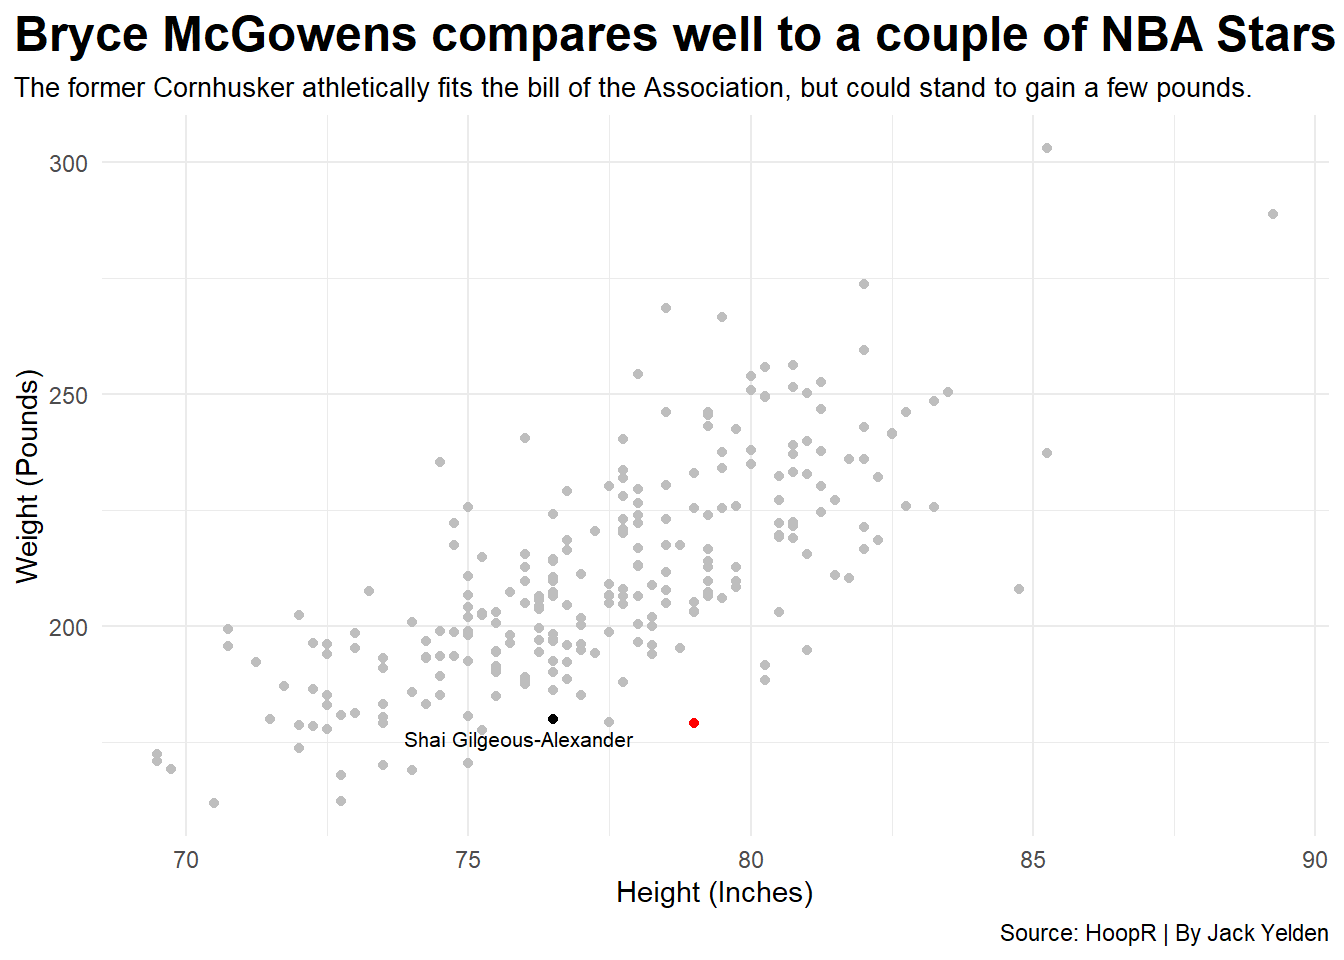
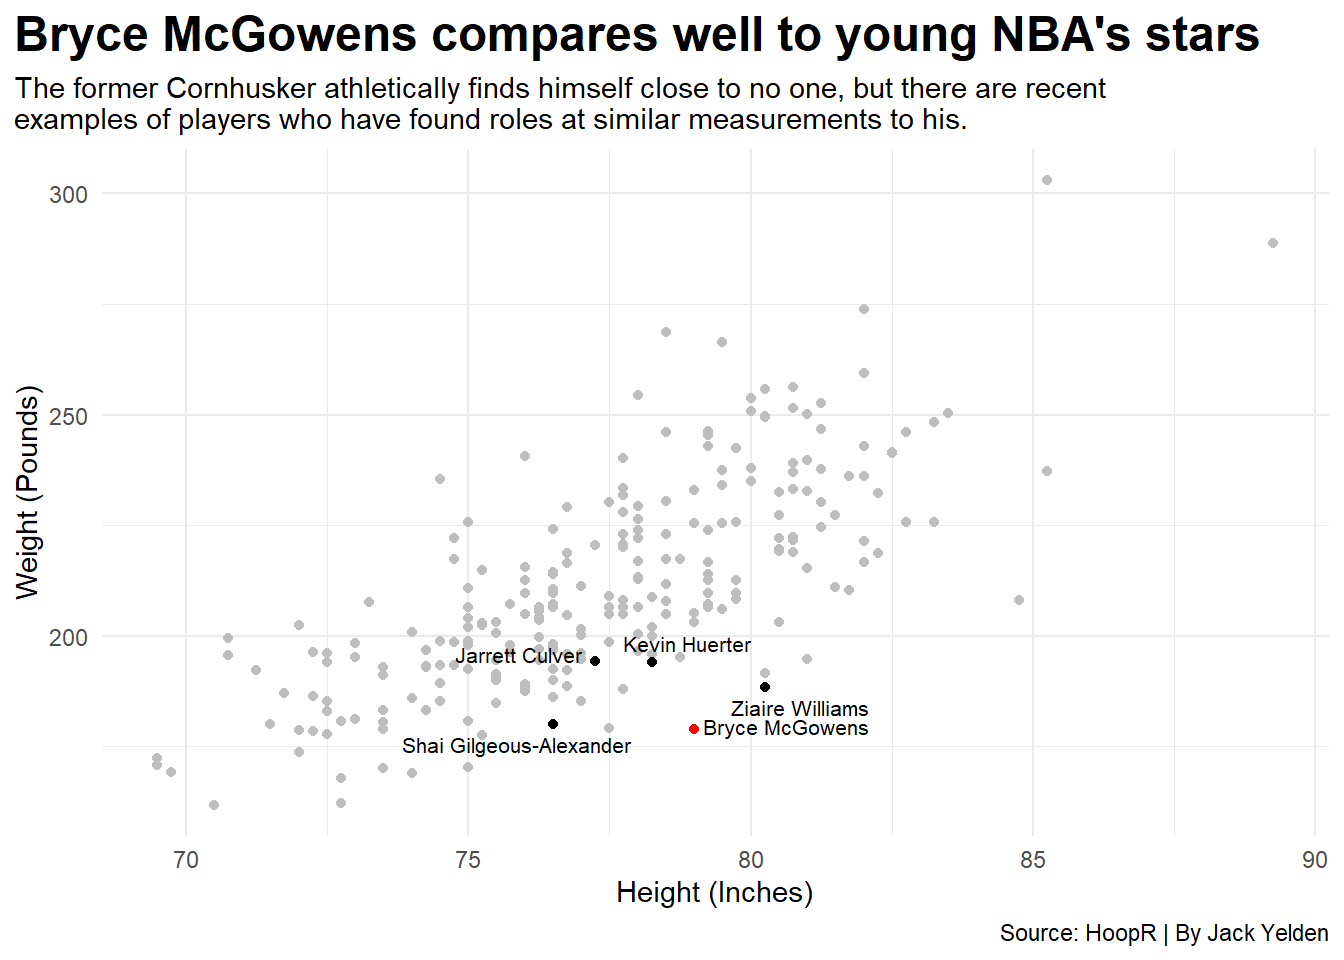
3rd Chart

diff --git a/2022/04/05/bryce-mcgowen-s-pro-prospects/index.html b/2022/04/05/bryce-mcgowen-s-pro-prospects/index.html
@@ -71,13 +71,14 @@
 
 
 <p>Nebraska Basketball had a poor 2021-2022 season, but if you were going to point to a single bright spot, it would probably be Bryce McGowens. The Freshman from South Carolina was the highest rated recruit in Nebraska Basketball history and contributed heavily on a team that had few playmakers.</p>
-<p><img src="/2022/04/05/bryce-mcgowen-s-pro-prospects/index_files/figure-html/unnamed-chunk-3-1.png" width="672" /></p>
-<div id="tbprsanabp" style="overflow-x:auto;overflow-y:auto;width:auto;height:auto;">
+<p><img src="/2022/04/05/bryce-mcgowen-s-pro-prospects/index_files/figure-html/unnamed-chunk-3-1.png" width="672" />
+<img src="/2022/04/05/bryce-mcgowen-s-pro-prospects/index_files/figure-html/unnamed-chunk-4-1.png" width="672" /></p>
+<div id="dggsoqyyez" style="overflow-x:auto;overflow-y:auto;width:auto;height:auto;">
 <style>html {
   font-family: -apple-system, BlinkMacSystemFont, 'Segoe UI', Roboto, Oxygen, Ubuntu, Cantarell, 'Helvetica Neue', 'Fira Sans', 'Droid Sans', Arial, sans-serif;
 }
 
-#tbprsanabp .gt_table {
+#dggsoqyyez .gt_table {
   display: table;
   border-collapse: collapse;
   margin-left: auto;
@@ -102,7 +103,7 @@
   border-left-color: #D3D3D3;
 }
 
-#tbprsanabp .gt_heading {
+#dggsoqyyez .gt_heading {
   background-color: #FFFFFF;
   text-align: center;
   border-bottom-color: #FFFFFF;
@@ -114,7 +115,7 @@
   border-right-color: #D3D3D3;
 }
 
-#tbprsanabp .gt_title {
+#dggsoqyyez .gt_title {
   color: #333333;
   font-size: 125%;
   font-weight: initial;
@@ -126,7 +127,7 @@
   border-bottom-width: 0;
 }
 
-#tbprsanabp .gt_subtitle {
+#dggsoqyyez .gt_subtitle {
   color: #333333;
   font-size: 85%;
   font-weight: initial;
@@ -138,13 +139,13 @@
   border-top-width: 0;
 }
 
-#tbprsanabp .gt_bottom_border {
+#dggsoqyyez .gt_bottom_border {
   border-bottom-style: none;
   border-bottom-width: 2px;
   border-bottom-color: #D3D3D3;
 }
 
-#tbprsanabp .gt_col_headings {
+#dggsoqyyez .gt_col_headings {
   border-top-style: none;
   border-top-width: 2px;
   border-top-color: #D3D3D3;
@@ -159,7 +160,7 @@
   border-right-color: #D3D3D3;
 }
 
-#tbprsanabp .gt_col_heading {
+#dggsoqyyez .gt_col_heading {
   color: #333333;
   background-color: #FFFFFF;
   font-size: 100%;
@@ -179,7 +180,7 @@
   overflow-x: hidden;
 }
 
-#tbprsanabp .gt_column_spanner_outer {
+#dggsoqyyez .gt_column_spanner_outer {
   color: #333333;
   background-color: #FFFFFF;
   font-size: 100%;
@@ -191,15 +192,15 @@
   padding-right: 4px;
 }
 
-#tbprsanabp .gt_column_spanner_outer:first-child {
+#dggsoqyyez .gt_column_spanner_outer:first-child {
   padding-left: 0;
 }
 
-#tbprsanabp .gt_column_spanner_outer:last-child {
+#dggsoqyyez .gt_column_spanner_outer:last-child {
   padding-right: 0;
 }
 
-#tbprsanabp .gt_column_spanner {
+#dggsoqyyez .gt_column_spanner {
   border-bottom-style: none;
   border-bottom-width: 2px;
   border-bottom-color: #D3D3D3;
@@ -211,7 +212,7 @@
   width: 100%;
 }
 
-#tbprsanabp .gt_group_heading {
+#dggsoqyyez .gt_group_heading {
   padding-top: 8px;
   padding-bottom: 8px;
   padding-left: 5px;
@@ -236,7 +237,7 @@
   vertical-align: middle;
 }
 
-#tbprsanabp .gt_empty_group_heading {
+#dggsoqyyez .gt_empty_group_heading {
   padding: 0.5px;
   color: #333333;
   background-color: #FFFFFF;
@@ -251,15 +252,15 @@
   vertical-align: middle;
 }
 
-#tbprsanabp .gt_from_md > :first-child {
+#dggsoqyyez .gt_from_md > :first-child {
   margin-top: 0;
 }
 
-#tbprsanabp .gt_from_md > :last-child {
+#dggsoqyyez .gt_from_md > :last-child {
   margin-bottom: 0;
 }
 
-#tbprsanabp .gt_row {
+#dggsoqyyez .gt_row {
   padding-top: 8px;
   padding-bottom: 8px;
   padding-left: 5px;
@@ -278,7 +279,7 @@
   overflow-x: hidden;
 }
 
-#tbprsanabp .gt_stub {
+#dggsoqyyez .gt_stub {
   color: #333333;
   background-color: #FFFFFF;
   font-size: 100%;
@@ -291,7 +292,7 @@
   padding-right: 5px;
 }
 
-#tbprsanabp .gt_stub_row_group {
+#dggsoqyyez .gt_stub_row_group {
   color: #333333;
   background-color: #FFFFFF;
   font-size: 100%;
@@ -305,11 +306,11 @@
   vertical-align: top;
 }
 
-#tbprsanabp .gt_row_group_first td {
+#dggsoqyyez .gt_row_group_first td {
   border-top-width: 2px;
 }
 
-#tbprsanabp .gt_summary_row {
+#dggsoqyyez .gt_summary_row {
   color: #333333;
   background-color: #FFFFFF;
   text-transform: inherit;
@@ -319,16 +320,16 @@
   padding-right: 5px;
 }
 
-#tbprsanabp .gt_first_summary_row {
+#dggsoqyyez .gt_first_summary_row {
   border-top-style: none;
   border-top-color: #D3D3D3;
 }
 
-#tbprsanabp .gt_first_summary_row.thick {
+#dggsoqyyez .gt_first_summary_row.thick {
   border-top-width: 2px;
 }
 
-#tbprsanabp .gt_last_summary_row {
+#dggsoqyyez .gt_last_summary_row {
   padding-top: 8px;
   padding-bottom: 8px;
   padding-left: 5px;
@@ -338,7 +339,7 @@
   border-bottom-color: #D3D3D3;
 }
 
-#tbprsanabp .gt_grand_summary_row {
+#dggsoqyyez .gt_grand_summary_row {
   color: #333333;
   background-color: #FFFFFF;
   text-transform: inherit;
@@ -348,7 +349,7 @@
   padding-right: 5px;
 }
 
-#tbprsanabp .gt_first_grand_summary_row {
+#dggsoqyyez .gt_first_grand_summary_row {
   padding-top: 8px;
   padding-bottom: 8px;
   padding-left: 5px;
@@ -358,11 +359,11 @@
   border-top-color: #D3D3D3;
 }
 
-#tbprsanabp .gt_striped {
+#dggsoqyyez .gt_striped {
   background-color: rgba(128, 128, 128, 0.05);
 }
 
-#tbprsanabp .gt_table_body {
+#dggsoqyyez .gt_table_body {
   border-top-style: none;
   border-top-width: 2px;
   border-top-color: #D3D3D3;
@@ -371,7 +372,7 @@
   border-bottom-color: #D3D3D3;
 }
 
-#tbprsanabp .gt_footnotes {
+#dggsoqyyez .gt_footnotes {
   color: #333333;
   background-color: #FFFFFF;
   border-bottom-style: none;
@@ -385,7 +386,7 @@
   border-right-color: #D3D3D3;
 }
 
-#tbprsanabp .gt_footnote {
+#dggsoqyyez .gt_footnote {
   margin: 0px;
   font-size: 90%;
   padding-left: 4px;
@@ -394,7 +395,7 @@
   padding-right: 5px;
 }
 
-#tbprsanabp .gt_sourcenotes {
+#dggsoqyyez .gt_sourcenotes {
   color: #333333;
   background-color: #FFFFFF;
   border-bottom-style: none;
@@ -408,7 +409,7 @@
   border-right-color: #D3D3D3;
 }
 
-#tbprsanabp .gt_sourcenote {
+#dggsoqyyez .gt_sourcenote {
   font-size: 90%;
   padding-top: 4px;
   padding-bottom: 4px;
@@ -416,60 +417,60 @@
   padding-right: 5px;
 }
 
-#tbprsanabp .gt_left {
+#dggsoqyyez .gt_left {
   text-align: left;
 }
 
-#tbprsanabp .gt_center {
+#dggsoqyyez .gt_center {
   text-align: center;
 }
 
-#tbprsanabp .gt_right {
+#dggsoqyyez .gt_right {
   text-align: right;
   font-variant-numeric: tabular-nums;
 }
 
-#tbprsanabp .gt_font_normal {
+#dggsoqyyez .gt_font_normal {
   font-weight: normal;
 }
 
-#tbprsanabp .gt_font_bold {
+#dggsoqyyez .gt_font_bold {
   font-weight: bold;
 }
 
-#tbprsanabp .gt_font_italic {
+#dggsoqyyez .gt_font_italic {
   font-style: italic;
 }
 
-#tbprsanabp .gt_super {
+#dggsoqyyez .gt_super {
   font-size: 65%;
 }
 
-#tbprsanabp .gt_footnote_marks {
+#dggsoqyyez .gt_footnote_marks {
   font-style: italic;
   font-weight: normal;
   font-size: 75%;
   vertical-align: 0.4em;
 }
 
-#tbprsanabp .gt_asterisk {
+#dggsoqyyez .gt_asterisk {
   font-size: 100%;
   vertical-align: 0;
 }
 
-#tbprsanabp .gt_slash_mark {
+#dggsoqyyez .gt_slash_mark {
   font-size: 0.7em;
   line-height: 0.7em;
   vertical-align: 0.15em;
 }
 
-#tbprsanabp .gt_fraction_numerator {
+#dggsoqyyez .gt_fraction_numerator {
   font-size: 0.6em;
   line-height: 0.6em;
   vertical-align: 0.45em;
 }
 
-#tbprsanabp .gt_fraction_denominator {
+#dggsoqyyez .gt_fraction_denominator {
   font-size: 0.6em;
   line-height: 0.6em;
   vertical-align: -0.05em;
